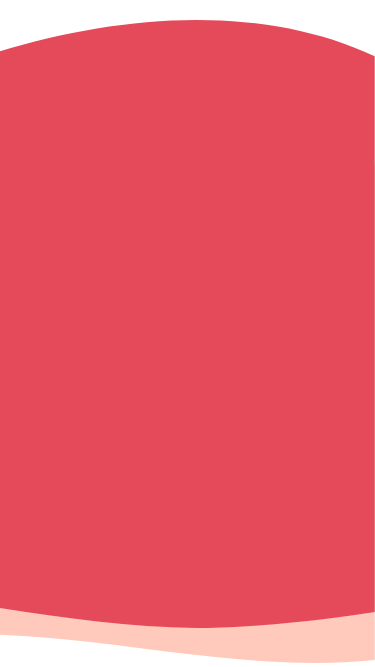
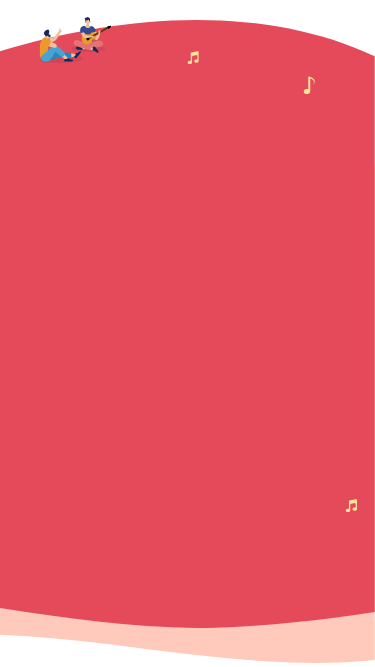
메인-links 영역 중간커밋2

diff --git a/src/components/links/LinkIcon.tsx b/src/components/links/LinkIcon.tsx
@@ -8,6 +8,8 @@ type LinkIconProps = {
 export default function LinkIcon(props: LinkIconProps) {
   const { title, icon, url } = props.data;
 
+  console.log(url);
+
   const theme = useTheme();
   const styles = css`
     display: inline-block;
@@ -26,8 +28,24 @@ export default function LinkIcon(props: LinkIconProps) {
     span {
       margin-top: 30px;
       display: inline-block;
-      width: 49px;
-      height: 43px;
+      width: ${icon === "intro"
+        ? "49px"
+        : icon === "schedule"
+        ? "43px"
+        : icon === "map"
+        ? "43px"
+        : icon === "location"
+        ? "43px"
+        : "47px"};
+      height: ${icon === "intro"
+        ? "43px"
+        : icon === "schedule"
+        ? "48px"
+        : icon === "map"
+        ? "48px"
+        : icon === "location"
+        ? "38px"
+        : "38px"};
       background-image: url(images/icons/link-${icon}-default.svg);
       background-size: contain;
       background-repeat: no-repeat;
@@ -50,10 +68,37 @@ export default function LinkIcon(props: LinkIconProps) {
     }
 
     @media (min-width: ${theme.breakpoints.desktop}) {
+      width: 246px;
+      height: 246px;
+      span {
+        margin-top: 66px;
+        width: ${icon === "intro"
+          ? "71px"
+          : icon === "schedule"
+          ? "61px"
+          : icon === "map"
+          ? "61px"
+          : icon === "location"
+          ? "61px"
+          : "66px"};
+        height: ${icon === "intro"
+          ? "61px"
+          : icon === "schedule"
+          ? "68px"
+          : icon === "map"
+          ? "68px"
+          : icon === "location"
+          ? "54px"
+          : "54px"};
+      }
+      h4 {
+        margin-top: 24px;
+        font-size: 29px;
+      }
     }
   `;
   return (
-    <a href={url} css={styles}>
+    <a href={url?.startsWith("http") ? url : `https://${url}`} css={styles}>
       <span>{icon}</span>
       <h4>{title}</h4>
     </a>

diff --git a/src/components/links/LinkItem.tsx b/src/components/links/LinkItem.tsx
@@ -8,9 +8,7 @@ type LinkItemProps = {
   index: number; // Assuming key is passed as a prop for unique identification
 };
 export default function LinkItem(props: LinkItemProps) {
-  const { title, icon } = props.data;
-
-  console.log(props.index);
+  const { title, icon, url } = props.data;
 
   const theme = useTheme();
   const floatUpDown = keyframes`
@@ -50,18 +48,37 @@ export default function LinkItem(props: LinkItemProps) {
         background-color: ${theme.colors.point2};
       }
     }
-    &:nth-child(2n) {
+    &:nth-of-type(2n) {
       margin: 20px 0 0 20px;
     }
     animation: ${floatUpDown} 2s ease-in-out infinite;
     animation-delay: ${delay}s;
 
     @media (min-width: ${theme.breakpoints.desktop}) {
+      &::after {
+        width: 306px;
+        height: 306px;
+      }
+      &:nth-of-type(1) {
+        margin-top: 188px;
+      }
+      &:nth-of-type(2) {
+        margin: 353px 0 0 65px;
+      }
+      &:nth-of-type(3) {
+        margin-top: 35px;
+      }
+      &:nth-of-type(4) {
+        margin: 322px 72px 0 0;
+      }
+      &:nth-of-type(5) {
+        margin-top: 142px;
+      }
     }
   `;
   return (
     <li key={props.index} css={styles(props.index * 0.3)}>
-      <LinkIcon data={{ title, icon }} />
+      <LinkIcon data={{ title, icon, url }} />
     </li>
   );
 }

diff --git a/src/components/links/LinkList.tsx b/src/components/links/LinkList.tsx
@@ -16,14 +16,21 @@ export default function LinkList(props: LinkListProps) {
     justify-content: center;
     align-items: flex-start;
     padding-top: 79px;
+    max-width: 350px;
+    margin: 0 auto;
 
     @media (min-width: ${theme.breakpoints.desktop}) {
+      max-width: inherit;
+      margin: inherit;
+      padding-top: inherit;
+      flex-wrap: nowrap;
+      align-items: anchor-center;
     }
   `;
   return (
     <ul css={styles}>
       {links.map((item, index) => (
-        <LinkItem data={item} index={index} />
+        <LinkItem data={item} index={index} key={index} />
       ))}
     </ul>
   );

diff --git a/src/components/Links.tsx b/src/components/Links.tsx
@@ -17,8 +17,12 @@ export default function Links(props: LinksProps) {
     background: url("/images/mobile/links-bg.png");
     background-repeat: no-repeat;
     background-position: left top;
-    background-size: contain;
+    background-size: cover;
     @media (min-width: ${theme.breakpoints.desktop}) {
+      background: url("/images/pc/links-bg.png");
+      background-repeat: no-repeat;
+      background-position: left top;
+      background-size: contain;
     }
   `;
   return (

diff --git a/src/data/data.ts b/src/data/data.ts
@@ -26,7 +26,7 @@ export type programsTypes = {
 export type linksTypes = {
   title: string;
   icon: string;
-  url?: string;
+  url: string;
 };
 
 export type AllDataTypes = {
